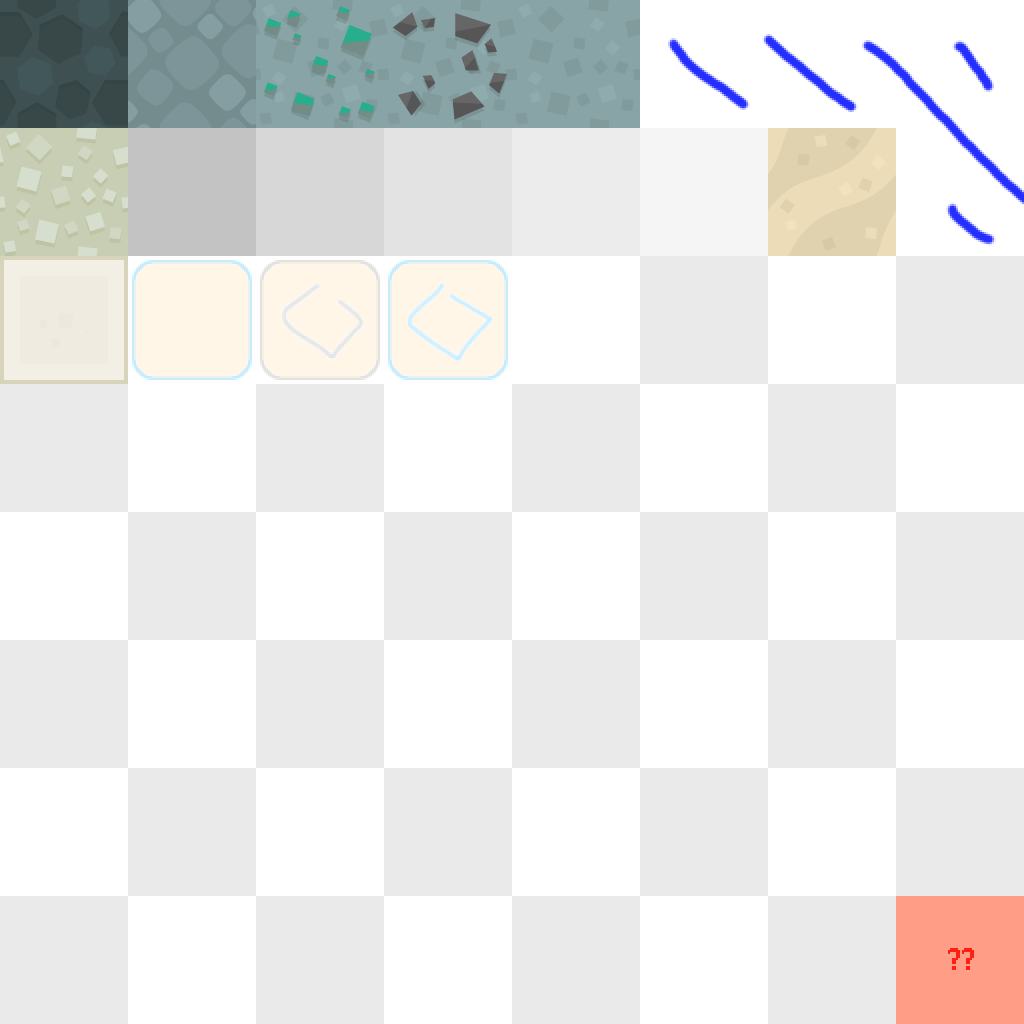
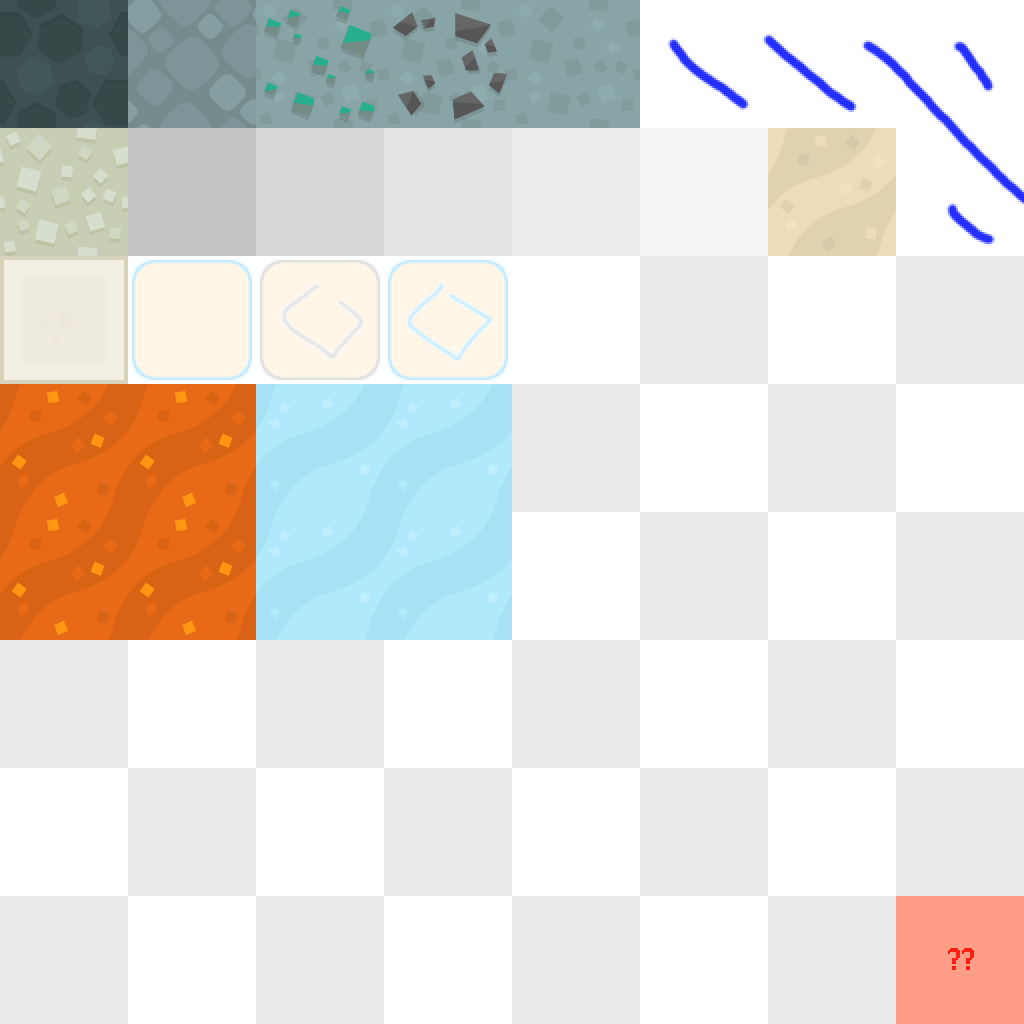
Added water and lava

Changed region(s): [[0.0, 0.375, 0.5, 0.625]]

diff --git a/src/main.cpp b/src/main.cpp
@@ -125,6 +125,7 @@ void initEditor() {
     editorMetaA = new int[editorWidth*editorHeight];
     editorMetaB = new int[editorWidth*editorHeight];
     world->getMap()->getEditorData(editorMetaA, editorMetaB);
+    world->getMap()->setGlobalVisibilityForEditor();
 }
 
 void renderEditor(sf::RenderTarget &target) {
@@ -336,7 +337,7 @@ int main() {
     updateViewport(sf::Vector2f((float)newSize.x, (float)newSize.y));
 
     // The sf::VideoMode class has some interesting static functions to get the desktop resolution, or the list of valid video modes for fullscreen mode. 
-    World * w = new World("maps/drillMap.txt");
+    World * w = new World("maps/level1.txt");
     world = w->ref();
 
     camCenter = world->getMap()->getCameraCenterOnStart();

diff --git a/src/GameMap.cpp b/src/GameMap.cpp
@@ -430,6 +430,14 @@ sf::Vector2f GameMap::getCameraCenterOnStart() {
     return cameraCenterOnStart;
 }
 
+void GameMap::setGlobalVisibilityForEditor() {
+    for (int y = 0; y < height; y++) {
+        for (int x = 0; x < width; x++) {
+            getBlock(sf::Vector2i(x,y)).setVisible();
+        }
+    }
+    setModified();
+}
 
 /**! Here we assume that you know that this is block actually holds rubble. 
  * Reduces the rubble amount by 1 and turns the block into a normal ground block when all rubble was removed.

diff --git a/src/Block.h b/src/Block.h
@@ -12,7 +12,7 @@
  * Every entry in the map is one of the here declared blockTypes. 
  */
 enum BlockType {
-    MASSIVE, HARD, NORMAL_A, NORMAL_B, NORMAL_C, GROUND, RUBBLE, PLATE, BUILDING
+    MASSIVE, HARD, NORMAL_A, NORMAL_B, NORMAL_C, GROUND, RUBBLE, PLATE, BUILDING, WATER, LAVA
 };
 
 //!Up to now, there is only the basic base building where workers store all pickups and get spawned

diff --git a/src/GameMap.h b/src/GameMap.h
@@ -90,6 +90,8 @@ class GameMap : public Entity {
         //Cheap and dirty function that writes the metadata of all blocks into two given locations (expecting that the space is allocated etc.)
         void getEditorData(int * metaA, int* metaB);
 
+        void setGlobalVisibilityForEditor();
+
         sf::Vector2f getCameraCenterOnStart();
 
     protected : 

diff --git a/src/CharBlockLookup.h b/src/CharBlockLookup.h
@@ -30,6 +30,10 @@ Block getBlockFromCharacter(char block) {
         return PLATE;
     case '+':
         return BUILDING;
+    case '~': 
+        return WATER;
+    case '-':
+        return LAVA;
     default:
         std::cout << "WARNING: Char " << block << "does not map to a valid block, replaced with ground\n";
         return GROUND;

diff --git a/src/BlockPropertiesLookup.cpp b/src/BlockPropertiesLookup.cpp
@@ -22,8 +22,12 @@ int getTextureNumber(Block b) {
         return 16;
     case BUILDING:
         return 16 + 2;    
+    case WATER:
+        return 4*8+2;
+    case LAVA:
+        return 4*8;
     default:
-        return 8*8-1;
+        return 8*8-1; //Missing texture picture
     }
 }
 
